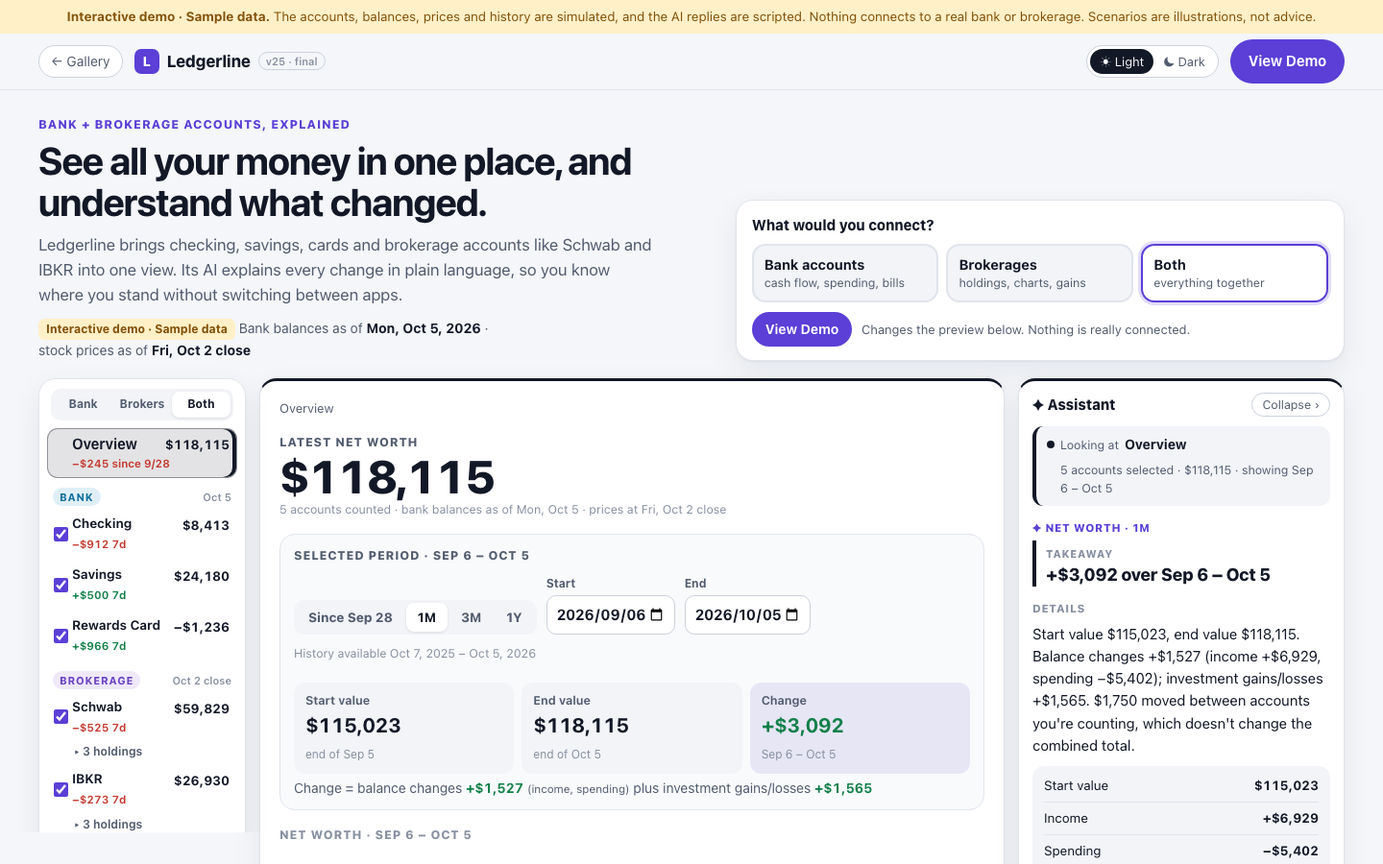
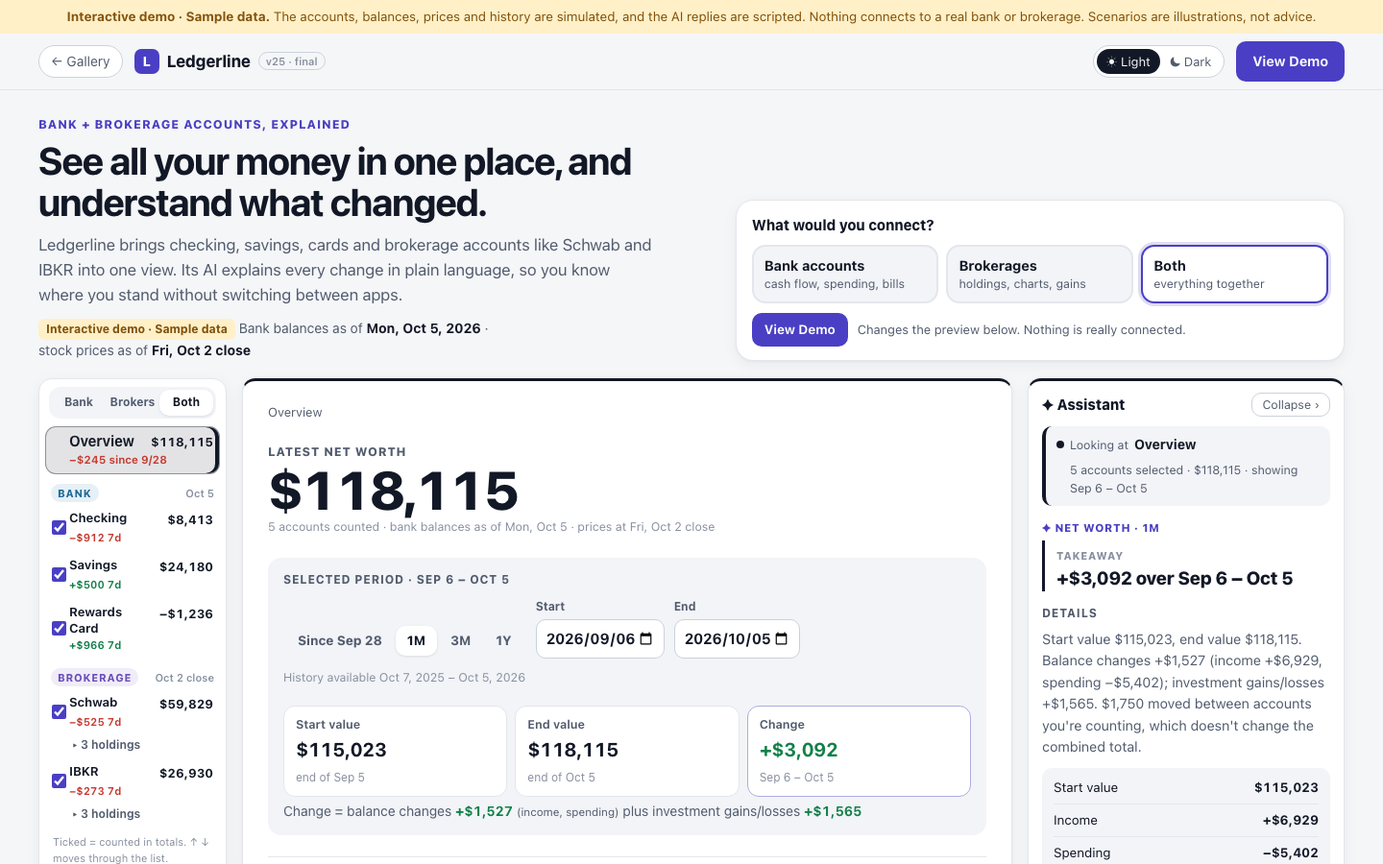
v25
v25: stock fundamentals, ETF fund info, and UI refresh

- Overview / Fundamentals switch in stock details: description, market cap,
  P/E, revenue growth, net margin, dividend yield, each with a plain-language
  explanation and reporting period; unavailable values shown honestly
- ETFs show expense ratio (and yearly cost on the holding), yield, top
  holdings with overlap, and sector allocation
- Assistant explains each metric takeaway-first
- Refresh: stronger hierarchy, compact account list, taller charts, one
  button style, consistent spacing/type, restrained light and dark colors
- Gallery: new v25 screenshot, card text and decision-log entry

diff --git a/a1-financial/v25/index.html b/a1-financial/v25/index.html
@@ -534,9 +534,72 @@
   .vs { margin-bottom: 12px; }
   table.hold td small { display: block; font-size: 11.5px; color: var(--faint); font-weight: 500; }
 
+  /* ---------- v25 refresh: one spacing scale, one type scale, one button style ---------- */
+  :root:not([data-theme="dark"]) { --accent: #4a3fc4; --accent-soft: #efedfb; --brok: #6a4fb8; --brok-soft: #f0ecf8; --bank: #1d6a95; --bank-soft: #e6f0f6; --bg: #f5f6f8; --line: #e3e6ec; --shadow: 0 1px 2px rgba(16,24,40,.04), 0 4px 16px rgba(16,24,40,.05); --r: 14px; --r-s: 10px; }
+  [data-theme="dark"] { --accent: #9d93f2; --accent-soft: #23203f; --brok: #ad98ee; --bank: #6aaed6; --shadow: 0 1px 2px rgba(0,0,0,.3), 0 4px 16px rgba(0,0,0,.25); --r: 14px; --r-s: 10px; }
+  body { font-size: 15.5px; }
+  .card { border-radius: var(--r); }
+  .detail { padding: 22px 26px 28px; gap: 22px; }
+  .sec h3, .p-h, .cats-h, .sub-h { font-size: 12px; font-weight: 750; letter-spacing: .07em; text-transform: uppercase; color: var(--muted); }
+  .sec h3 { margin-bottom: 10px; }
+  /* buttons share one shape */
+  .btn, .qbtn, .chipq, .to-ov, .as-min, .ranges button, .seg button, .seg2 button, .chip { border-radius: var(--r-s); }
+  .btn { padding: 9px 16px; font-size: 14.5px; }
+  .btn.sm { padding: 6px 12px; font-size: 13.5px; }
+  .chipq { padding: 5px 11px; }
+  .ranges, .seg { border-radius: 12px; }
+  /* compact account list */
+  .ws { grid-template-columns: 196px minmax(0, 1fr) 330px; gap: 16px; }
+  .ws.ai-min { grid-template-columns: 196px minmax(0, 1fr) 54px; }
+  .list { padding: 8px 6px; }
+  .list .pick { padding: 5px 6px 5px 2px; }
+  .list .pick .nm, .list .pick .bal { font-size: 13px; }
+  .list .pick .nm { white-space: normal; overflow: visible; }
+  .list .pick .chg { font-size: 11px; }
+  .list .grp { margin: 10px 6px 2px; }
+  .list-note { font-size: 11px; }
+  /* hierarchy: latest net worth > selected period > details */
+  .nw-head .big { font-size: clamp(40px, 4.6vw, 56px); }
+  .nw-head .k { color: var(--muted); }
+  .period { background: var(--surface-2); border: 0; border-radius: var(--r); padding: 14px 16px; }
+  .pstats > div { background: var(--surface); border: 1px solid var(--line); }
+  .pstats .chg { background: var(--surface); border-color: color-mix(in srgb, var(--accent) 35%, var(--line)); }
+  .pstats b { font-size: 20px; }
+  .detail > .sec, .detail > .two { padding-top: 18px; border-top: 1px solid var(--line); }
+  .tf { background: transparent; border: 1px solid var(--line); }
+  /* AI: takeaway first */
+  .take { border-left-width: 3px; padding: 2px 0 2px 12px; }
+  .take .x-title { font-size: 19px; line-height: 1.3; }
+  .x-text { font-size: 14.5px; color: var(--muted); }
+  .x-nums { border-radius: var(--r-s); }
+  .ctxbar { border-radius: var(--r-s); }
+  /* stock tabs and fundamentals */
+  .seg2 { display: inline-flex; gap: 2px; background: var(--surface-2); border-radius: 12px; padding: 3px; justify-self: start; }
+  .seg2 button { border: 0; background: none; padding: 6px 16px; font-weight: 700; font-size: 14px; color: var(--muted); cursor: pointer; }
+  .seg2 button[aria-selected="true"] { background: var(--surface); color: var(--ink); box-shadow: 0 1px 3px rgba(0,0,0,.1); }
+  .about { margin: 0; font-size: 15.5px; max-width: 70ch; }
+  .fgrid { display: grid; grid-template-columns: repeat(auto-fill, minmax(190px, 1fr)); gap: 10px; }
+  .fgrid.three { grid-template-columns: repeat(3, minmax(0, 1fr)); }
+  .fm { text-align: left; display: flex; flex-direction: column; gap: 3px; background: var(--surface); border: 1px solid var(--line); border-radius: var(--r-s); padding: 12px 14px; cursor: pointer; min-width: 0; }
+  .fm:hover { border-color: var(--accent); }
+  .fm .l { font-size: 12.5px; font-weight: 700; color: var(--muted); }
+  .fm b { font-size: 22px; letter-spacing: -.01em; font-variant-numeric: tabular-nums; }
+  .fm b.na { font-size: 17px; color: var(--muted); }
+  .fm .nab { font-size: 12px; color: var(--loss); }
+  .fm .nt { font-size: 12px; color: var(--muted); }
+  .fm .ex { font-size: 13px; color: var(--muted); margin-top: 4px; }
+  .fm .per { font-size: 11.5px; color: var(--faint); margin-top: auto; padding-top: 6px; border-top: 1px dashed var(--line); }
+  .wrow { display: grid; grid-template-columns: minmax(0, 1.3fr) minmax(0, 1fr) 52px; gap: 10px; align-items: center; padding: 6px 0; font-size: 14px; border-bottom: 1px solid var(--line); }
+  .wrow em { font-style: normal; font-size: 11px; font-weight: 700; color: var(--brok); background: var(--brok-soft); border-radius: 6px; padding: 1px 6px; margin-left: 4px; }
+  .wrow .bar { height: 8px; background: var(--surface-2); border-radius: 4px; overflow: hidden; }
+  .wrow .bar i { display: block; height: 100%; background: var(--brok); border-radius: 4px; }
+  .wrow .bar i.s { background: var(--bank); }
+  .wrow b { text-align: right; font-variant-numeric: tabular-nums; }
+
   /* ---------- responsive ---------- */
   @media (max-width: 1240px) {
     .ws { grid-template-columns: minmax(0, 1fr) 320px; }
+    .fgrid.three { grid-template-columns: repeat(2, minmax(0, 1fr)); }
     .ws.ai-min { grid-template-columns: minmax(0, 1fr) 54px; }
     .list { display: none; }
     .fx { grid-template-columns: repeat(3, minmax(0, 1fr)); }
@@ -591,6 +654,8 @@
     .ar .pc { display: none; }
     .pstats { grid-template-columns: 1fr 1fr; }
     .fx-sum, .pfacts { grid-template-columns: 1fr 1fr; }
+    .fgrid, .fgrid.three { grid-template-columns: minmax(0, 1fr); }
+    .detail { padding: 16px 14px 22px; gap: 18px; }
     table.hold th:last-child, table.hold td:last-child { display: none; }
     table.hold td { white-space: normal; }
     .dates-row label { min-width: 0; }
@@ -943,13 +1008,40 @@ function datesHTML(key) {
 }
 
 
+/* =========================================================
+   SAMPLE FUNDAMENTALS (new in this v25 update). Illustrative figures, not real company data.
+   Price-based metrics use the same Oct 2 close as everywhere else, so they stay consistent.
+   ========================================================= */
+const FUND_PERIOD = { ttm: "trailing 12 months to Jun 30, 2026", q: "Apr–Jun 2026 quarter vs. a year earlier", px: "price at Fri, Oct 2 close", fund: "fund data as of Aug 31, 2026" };
+const FUND = {
+  AAPL: { desc: "Designs and sells iPhone, Mac, iPad and wearables, plus services such as the App Store, iCloud and Apple Music.", sector: "Technology", shares: 15.2e9, eps: 6.60, rev: 4.9, margin: 24.1, div: 1.04 },
+  MSFT: { desc: "Makes software and cloud services, including Windows, Microsoft 365 and the Azure cloud platform, plus LinkedIn and Xbox.", sector: "Technology", shares: 7.43e9, eps: 12.40, rev: 14.2, margin: 35.6, div: 3.32 },
+  NVDA: { desc: "Designs graphics processors and other chips used for gaming and, increasingly, for AI and data centers.", sector: "Technology", shares: 24.5e9, eps: 2.94, rev: 56.0, margin: 52.4, div: 0.04 },
+  TSLA: { desc: "Makes electric vehicles, plus battery storage and solar energy products.", sector: "Consumer discretionary", shares: 3.21e9, eps: 1.88, rev: null, revWhy: "The latest quarterly report isn't included in this sample data.", margin: 6.8, div: 0 },
+  VTI: { etf: true, desc: "Holds nearly every publicly traded US company, large and small, weighted by size. One fund gives broad exposure to the whole US stock market.", exp: 0.03, n: 3600, yld: 1.3,
+    top: [["MSFT", 6.0], ["AAPL", 5.8], ["NVDA", 5.5], ["AMZN", 3.4], ["META", 2.3]], sect: [["Technology", 31], ["Financials", 13], ["Health care", 11], ["Consumer discretionary", 11], ["Industrials", 10], ["Other", 24]] },
+  QQQ: { etf: true, desc: "Tracks the Nasdaq-100: the 100 largest non-financial companies listed on the Nasdaq exchange, so it leans heavily toward technology.", exp: 0.20, n: 101, yld: 0.6,
+    top: [["MSFT", 8.6], ["AAPL", 8.4], ["NVDA", 8.0], ["AMZN", 5.3], ["META", 4.9]], sect: [["Technology", 50], ["Communication services", 16], ["Consumer discretionary", 14], ["Health care", 6], ["Other", 14]] }
+};
+const big = n => n >= 1e12 ? "$" + (n / 1e12).toFixed(2) + "T" : "$" + (n / 1e9).toFixed(0) + "B";
+function metrics(sym) {   // stock metrics, computed from the sample inputs
+  const f = FUND[sym], px = pos(sym).px;
+  return [
+    { k: "mcap", l: "Market cap", v: big(px * f.shares), per: FUND_PERIOD.px, ex: "What the whole company is worth on the stock market: share price × shares outstanding." },
+    { k: "pe", l: "P/E ratio", v: (px / f.eps).toFixed(1), per: `${FUND_PERIOD.px} ÷ earnings per share, ${FUND_PERIOD.ttm}`, ex: `How many dollars investors pay for $1 of yearly profit. A higher number usually means people expect faster growth.` },
+    { k: "rev", l: "Revenue growth", v: f.rev == null ? null : pct(f.rev), na: f.revWhy, per: FUND_PERIOD.q, ex: "How much more (or less) the company sold than in the same quarter a year earlier." },
+    { k: "margin", l: "Net profit margin", v: f.margin.toFixed(1) + "%", per: FUND_PERIOD.ttm, ex: "How many cents of profit the company keeps from each dollar of sales." },
+    { k: "div", l: "Dividend yield", v: f.div ? (f.div / px * 100).toFixed(2) + "%" : "None", note: f.div ? `$${f.div.toFixed(2)} a share per year` : "Doesn't pay a dividend", per: `yearly dividend ÷ ${FUND_PERIOD.px}`, ex: "The cash the company pays shareholders each year, as a share of the stock price." }
+  ];
+}
+
 /* ---------- state ---------- */
 const sel = new Set(ALL.map(a => a.id));          // ticked = counted in totals
 let conn = "both";                                // v19: bank, brokerage or both
 const W = { pay: false, dine: false, move: 0, moveTo: null, mkt: 0, acct: {}, stk: {} };
 const BASE = { pay: false, dine: false, move: 0, moveTo: null, mkt: 0, acct: {}, stk: {} };
 const mkFX = () => ({ q: "", from: "", to: "", acct: "", cat: "all", min: "", max: "", n: 40, err: null, open: false });
-const mkUI = () => ({ fx: mkFX(), mng: false, dateErr: null, item: "all", range: "1M", x: null, q: null, up: false, hover: null, wopen: false, hist: [], prev: null, prevX: null, ans: null, nwr: "1M", per: null, nwDay: null, drag: null, exp: {}, collapsed: false });
+const mkUI = () => ({ stab: "ov", fx: mkFX(), mng: false, dateErr: null, item: "all", range: "1M", x: null, q: null, up: false, hover: null, wopen: false, hist: [], prev: null, prevX: null, ans: null, nwr: "1M", per: null, nwDay: null, drag: null, exp: {}, collapsed: false });
 const ui = { land: mkUI(), demo: mkUI() };
 const cals = {};
 const connected = id => conn === "both" || (conn === "bank") === isBank(id);
@@ -984,7 +1076,7 @@ function ctxInfo(item) {
   const a = acct(item); return { label: a.name, sub: `${a.inst} ${a.mask} · ${money(item === "cc" ? 1236.40 : value(item), 2)}${item === "cc" ? " due" : ""} ${isBank(item) ? `as of ${MOCK.bankAsOf}` : `at ${MOCK.priceAsOf}`}${sel.has(item) ? "" : " · not selected"}`, color: isBank(item) ? "var(--bank)" : "var(--brok)", kind: isBank(item) ? "bank" : "brok" };
 }
 const X_LABEL = { "dc-income": "Income", "dc-spend": "Spending", "dc-inv": "Investment gains/losses", "dc-ext": "Transfers with accounts not counted", "dc-int": "Moves between your accounts", "a-bank": "Bank cash", "a-bcash": "Brokerage cash", "a-stocks": "Stocks & ETFs", "a-debt": "Credit card debt", nw: "Net worth", cash: "Bank total", inv: "Investments", kept: "Kept in September", income: "Income", spend: "Spending", pxchg: "Price change", mygain: "Your gain or loss", flow: "Recent cash flow", movers: "Top movers" };
-const xLabel = (x, key) => x.startsWith("tx-") ? (t => `${t.t} · ${short(t.d)}`)(HIST.byId[x.slice(3)]) : x === "nwd" ? nice(HIST.days[ui[key].nwDay]) : x === "nwp" ? period(key).label : X_LABEL[x] || (x.startsWith("cat-") ? x.slice(4) : x.startsWith("day-") ? nice(x.slice(4)) : x);
+const xLabel = (x, key) => x.startsWith("fm-") ? metrics(ui[key].item.slice(2)).find(z => "fm-" + z.k === x).l : x.startsWith("fe-") ? { "fe-exp": "Expense ratio", "fe-yld": "Dividend yield", "fe-top": "Top holdings" }[x] : x.startsWith("tx-") ? (t => `${t.t} · ${short(t.d)}`)(HIST.byId[x.slice(3)]) : x === "nwd" ? nice(HIST.days[ui[key].nwDay]) : x === "nwp" ? period(key).label : X_LABEL[x] || (x.startsWith("cat-") ? x.slice(4) : x.startsWith("day-") ? nice(x.slice(4)) : x);
 
 // one definition of “nothing to show”, used by the overview AND the assistant
 function emptyState() {
@@ -1161,7 +1253,7 @@ function chkHistory() {
   return out;
 }
 function lineSVG(key, pts, { color, base, fmt, labels, id, shade, sel, attr }) {
-  const w = innerWidth < 600 ? 360 : ui[key].collapsed && innerWidth > 1240 ? 880 : 640, h = innerWidth < 600 ? 200 : 220, vals = pts.map(p => p.v), lo = Math.min(...vals, base ?? Infinity), hi = Math.max(...vals, base ?? -Infinity), pad = (hi - lo) * .12 || 1;
+  const w = innerWidth < 600 ? 360 : ui[key].collapsed && innerWidth > 1240 ? 880 : 640, h = innerWidth < 600 ? 210 : 250, vals = pts.map(p => p.v), lo = Math.min(...vals, base ?? Infinity), hi = Math.max(...vals, base ?? -Infinity), pad = (hi - lo) * .12 || 1;
   const x = i => 46 + i * (w - 56) / Math.max(1, pts.length - 1), y = v => 14 + (hi + pad - v) / (hi - lo + 2 * pad) * (h - 44);
   const d = pts.map((p, i) => `${i ? "L" : "M"}${x(i).toFixed(1)},${y(p.v).toFixed(1)}`).join("");
   let g = `<svg viewBox="0 0 ${w} ${h}" data-chart="${key}|${id}" role="img" aria-label="${labels.aria}">`;
@@ -1225,6 +1317,9 @@ function stockHTML(key, sym) {
   let h = crumbs(key, [["all", "Overview"], [p.acct, a.name], ["h-" + sym, sym]]);
   h += `<div class="d-head"><div><span class="tag brok">${a.short}</span> <span style="font-size:13px;color:var(--muted)">${p.name}${ETFS.includes(sym) ? " · ETF" : ""}</span><h2>${sym}</h2><div class="pxline"><b>${money(p.px, 2)}</b> per share · <span>Fri, Oct 2, 4:00 pm ET close</span></div></div>
     <div class="fig"><div class="k2">Your position</div><div class="v">${money(p.val)}</div>${aft(p.val, A.pv[sym])}<div class="l">${p.qty} shares × ${money(p.px, 2)}</div></div></div>`;
+  const etf = !!(FUND[sym] && FUND[sym].etf);
+  h += `<div class="seg2" role="tablist" aria-label="${sym} view"><button type="button" role="tab" data-stab="${key}|ov" aria-selected="${u.stab !== "fund"}">Overview</button><button type="button" role="tab" data-stab="${key}|fund" aria-selected="${u.stab === "fund"}">${etf ? "Fund info" : "Fundamentals"}</button></div>`;
+  if (u.stab === "fund") return h + (etf ? etfHTML(key, p) : fundHTML(key, p));
   // key facts: quantity, average cost, current value, cost basis
   h += `<div class="pfacts"><div><span>Shares</span><b>${p.qty}</b></div><div><span>Average cost</span><b>${money(p.cost, 2)}</b><small>per share</small></div><div><span>Current value</span><b>${money(p.val)}</b><small>at Oct 2 close</small></div><div><span>Cost basis</span><b>${money(basis)}</b><small>what you paid</small></div></div>`;
   // the two kinds of performance, side by side
@@ -1239,6 +1334,27 @@ function stockHTML(key, sym) {
   return h;
 }
 
+function fundHTML(key, p) {
+  const f = FUND[p.sym], m = metrics(p.sym);
+  return `<div class="sec"><h3>About ${p.name} <span class="tf">${f.sector}</span></h3><p class="about">${f.desc}</p></div>
+    <div class="sec"><h3>Key numbers <span class="tf">Sample figures · tap one for an explanation</span></h3>
+      <div class="fgrid">${m.map(x => `<button type="button" ${xa(key, "fm-" + x.k, "fm")}><span class="l">${x.l}</span><b class="${x.v == null ? "na" : ""}">${x.v == null ? "Not available" : x.v}</b>${x.v == null ? `<small class="nab">${x.na}</small>` : x.note ? `<small class="nt">${x.note}</small>` : ""}<span class="ex">${x.ex}</span><span class="per">${x.per}</span></button>`).join("")}</div>
+      <p class="ovn">These are company-level numbers: they describe ${p.sym} as a business, not your ${p.qty} shares. Your own gain is on the Overview tab.</p></div>`;
+}
+function etfHTML(key, p) {
+  const f = FUND[p.sym], own = f.top.filter(([s]) => MOCK.positions.some(q => q.sym === s && q.sym !== p.sym)), cost = p.val * f.exp / 100;
+  return `<div class="sec"><h3>About this fund <span class="tf">ETF · ${f.n.toLocaleString()} holdings</span></h3><p class="about">${f.desc}</p></div>
+    <div class="sec"><h3>Fund basics <span class="tf">Sample figures · ${FUND_PERIOD.fund}</span></h3>
+      <div class="fgrid three">
+        <button type="button" ${xa(key, "fe-exp", "fm")}><span class="l">Expense ratio</span><b>${f.exp.toFixed(2)}%</b><small class="nt">about ${money(cost, 2)} a year on your ${money(p.val)}</small><span class="ex">The yearly fee the fund takes, as a share of what you hold.</span><span class="per">annual, ${FUND_PERIOD.fund}</span></button>
+        <button type="button" ${xa(key, "fe-yld", "fm")}><span class="l">Dividend yield</span><b>${f.yld.toFixed(1)}%</b><span class="ex">Cash the fund passes on from the companies it holds, as a share of its price.</span><span class="per">trailing 12 months, ${FUND_PERIOD.fund}</span></button>
+        <button type="button" ${xa(key, "fe-top", "fm")}><span class="l">Top 5 holdings</span><b>${f.top.reduce((a, t) => a + t[1], 0).toFixed(1)}%</b><span class="ex">How much of the fund sits in its five largest companies.</span><span class="per">${FUND_PERIOD.fund}</span></button>
+      </div></div>
+    <div class="two"><div class="sec"><h3>Top holdings</h3>${f.top.map(([s, w]) => `<div class="wrow"><span>${s}${MOCK.positions.some(q => q.sym === s) ? ` <em>you also own</em>` : ""}</span><span class="bar"><i style="width:${w / f.top[0][1] * 100}%"></i></span><b>${w.toFixed(1)}%</b></div>`).join("")}
+        ${own.length ? `<p class="ovn">You also own ${own.map(o => o[0]).join(", ")} directly, so part of this fund overlaps with your other holdings.</p>` : ""}</div>
+      <div class="sec"><h3>Sector allocation</h3>${f.sect.map(([n, w]) => `<div class="wrow"><span>${n}</span><span class="bar"><i class="s" style="width:${w}%"></i></span><b>${w}%</b></div>`).join("")}</div></div>
+    <p class="ovn">ETFs hold many companies, so company metrics like P/E aren't shown; fund costs and what's inside matter more.</p>`;
+}
 function calHTML(key, bs, rootKey) {
   const c = cals[key] || (cals[key] = { mi: 1, day: null }), [y, m] = MOCK.months[c.mi], ms = monthStats(y, m, bs), root = rootKey || key;
   const lvl = v => { const a = Math.abs(v); return a < 100 ? 1 : a < 250 ? 2 : a < 500 ? 3 : 4; };
@@ -1270,6 +1386,26 @@ function explain(key) {
   const u = ui[key], it = u.item, x = u.x, B = numbers(BASE), bs = B.bs, S = MOCK.september;
   const nums = rows => `<div class="x-nums">${rows.map(([l, v]) => `<div class="r"><span>${l}</span><b>${v}</b></div>`).join("")}</div>`;
   const X = (what, title, text, rows, qs) => ({ what, title, text, rows: rows ? nums(rows) : "", qs: qs || [] });
+  // fundamentals and fund information
+  if (x && (x.startsWith("fm-") || x.startsWith("fe-")) && it.startsWith("h-")) {
+    const p = pos(it.slice(2)), f = FUND[p.sym];
+    if (x.startsWith("fe-")) {
+      if (x === "fe-exp") return X("FUND COST", `${p.sym} costs about ${money(p.val * f.exp / 100, 2)} a year on your holding`, `Its expense ratio is ${f.exp.toFixed(2)}%: each year the fund keeps that share of what you hold to cover its costs. It's taken out of the fund's value, not billed to you. Sample figure, ${FUND_PERIOD.fund}.`, MOCK.positions.filter(q => FUND[q.sym] && FUND[q.sym].etf).map(q => [`${q.sym} <small>${FUND[q.sym].exp.toFixed(2)}%</small>`, money(q.val * FUND[q.sym].exp / 100, 2) + " / yr"]));
+      if (x === "fe-yld") return X("FUND DIVIDENDS", `${p.sym} yields about ${f.yld.toFixed(1)}%`, `On your ${money(p.val)} that's roughly ${money(p.val * f.yld / 100)} a year, if the yield stayed the same. Sample figure, trailing 12 months.`);
+      return X("WHAT'S INSIDE", `Its top 5 companies are ${f.top.reduce((a, t) => a + t[1], 0).toFixed(1)}% of ${p.sym}`, `${f.top.filter(([s]) => MOCK.positions.some(q => q.sym === s)).length ? `You also own ${f.top.filter(([s]) => MOCK.positions.some(q => q.sym === s)).map(t => t[0]).join(", ")} directly, so your exposure to them is higher than your direct holdings suggest.` : ""} Sample figures, ${FUND_PERIOD.fund}.`, f.top.map(([s, w]) => [s, `${w.toFixed(1)}% · about ${money(p.val * w / 100)} of yours`]));
+    }
+    const m = metrics(p.sym).find(z => "fm-" + z.k === x), all = MOCK.positions.filter(q => FUND[q.sym] && !FUND[q.sym].etf);
+    const cmp = all.map(q => { const v = metrics(q.sym).find(z => z.k === m.k); return [q.sym + (q.sym === p.sym ? " <small>(this)</small>" : ""), v.v == null ? "Not available" : v.v]; });
+    const take = m.v == null ? `${p.sym}'s ${m.l.toLowerCase()} isn't available` : { mcap: `${p.sym} is worth about ${m.v} on the market`, pe: `Investors pay about $${(+m.v).toFixed(2)} for each $1 of ${p.sym}'s yearly profit`, rev: `${p.sym}'s sales ${FUND[p.sym].rev >= 0 ? "grew" : "fell"} ${m.v.replace(/^[+−]/, "")} from a year earlier`, margin: `${p.sym} keeps about ${Math.round(FUND[p.sym].margin)}¢ of profit per $1 of sales`, div: FUND[p.sym].div ? `${p.sym} pays about ${m.v} a year in dividends` : `${p.sym} doesn't pay a dividend` }[m.k];
+    return X(`${m.l.toUpperCase()} · ${p.sym}`, take, `${m.ex} ${m.v == null ? m.na + " The demo shows it as unavailable instead of guessing." : ""} Period: ${m.per}. Sample figures, not real company data, and not a recommendation.`, cmp);
+  }
+  // the Fundamentals / Fund info tab, before anything specific is chosen
+  if (!x && it.startsWith("h-") && u.stab === "fund" && FUND[it.slice(2)]) {
+    const p = pos(it.slice(2)), f = FUND[p.sym];
+    if (f.etf) return X(`${p.sym} · FUND INFO`, `${p.sym} holds ${f.n.toLocaleString()} companies and costs about ${money(p.val * f.exp / 100, 2)} a year on yours`, `${f.desc} Its largest sector is ${f.sect[0][0].toLowerCase()} at ${f.sect[0][1]}%. Sample figures, ${FUND_PERIOD.fund}.`, [["Expense ratio", f.exp.toFixed(2) + "%"], ["Dividend yield", f.yld.toFixed(1) + "%"], ["Top 5 holdings", f.top.reduce((a, t) => a + t[1], 0).toFixed(1) + "%"]], [["x:fe-exp", "What does the fee cost me?"], ["x:fe-top", "What's inside?"]]);
+    const m = metrics(p.sym), g = k => m.find(z => z.k === k);
+    return X(`${p.sym} · FUNDAMENTALS`, `${p.sym} in brief: a ${g("mcap").v} company at ${g("pe").v}× earnings`, `${f.desc} These describe the company, not your shares. Sample figures, not real company data.`, m.map(z => [z.l, z.v == null ? "Not available" : z.v]), [["x:fm-pe", "What does P/E tell me?"], ["x:fm-margin", "Is it profitable?"]]);
+  }
   // a single transaction from the explorer
   if (x && x.startsWith("tx-")) {
     const t = HIST.byId[x.slice(3)], A = id => id === "cc" ? "Rewards Card" : acct(id).name, Sx = counted(), i = HIST.idx[t.d], own = Sx.has(t.a);
@@ -1503,6 +1639,8 @@ document.addEventListener("click", e => {
   if (ap) { const [key, i] = ap.dataset.apply.split("|"), o = ui[key].ans.options[+i]; applyScenario(key, o.act); return; }
   const ac = e.target.closest("[data-ansclear]");
   if (ac) { const key = ac.dataset.ansclear; ui[key].ans = null; render(key); return; }
+  const st = e.target.closest("[data-stab]");
+  if (st) { const [key, v] = st.dataset.stab.split("|"); ui[key].stab = v; if (ui[key].x && /^f[me]-/.test(ui[key].x)) ui[key].x = null; render(key); $(`[data-stab="${key}|${v}"]`)?.focus(); return; }
   const fo = e.target.closest("[data-fxopen]");
   if (fo) { const key = fo.dataset.fxopen; ui[key].fx.open = !ui[key].fx.open; render(key); $(`[data-fxopen="${key}"]`)?.focus(); return; }
   const fs = e.target.closest("[data-fxscope]");

diff --git a/a1-financial/index.html b/a1-financial/index.html
@@ -185,7 +185,7 @@
             <li>Latest net worth first, then a selected period (presets or exact dates) explained through income, spending and investment gains</li>
             <li>A breakdown into bank cash, brokerage cash, stocks &amp; ETFs and card debt</li>
             <li>A searchable transaction explorer built from the same sample ledger as the overview</li>
-            <li>Holdings with a price chart, average cost and your own gain, kept separate from the stock's performance</li>
+            <li>Holdings with a price chart, average cost and your own gain, kept separate from the stock's performance, plus an Overview / Fundamentals switch: sample company metrics for stocks, fund costs and contents for ETFs</li>
             <li>An assistant that leads with a short takeaway; what-if scenarios are a secondary tool</li>
           </ul>
           <h4>Earlier versions that shaped it</h4>
@@ -289,7 +289,7 @@
       </details>
 
       <details class="lg" open>
-        <summary>Stage 3 · Refining the Connected Workspace <small>v20–v25 · 6 entries</small></summary>
+        <summary>Stage 3 · Refining the Connected Workspace <small>v20–v25 · 7 entries</small></summary>
         <ol class="log">
           <li><div class="when">v20</div><h4>v18 becomes the foundation</h4>
             <p>I combined v18's overview and AI panel with the clear account list from v01/v16, the bank/brokerage choice from v19 and v08's “Since you last checked”, keeping the layout focused. I also wanted individual stocks, each with a price chart (simulated 1D, 1W, 1M and 1Y), position details, and a clear difference between the stock's price change and my own gain or loss. The AI panel explains what's selected, with what-ifs as a secondary tab. Bank accounts show cash flow instead of stock charts.</p></li>
@@ -321,6 +321,14 @@
               <li>a polished investment flow, from brokerage to holding to chart to my own gain</li>
             </ul>
             <p>Order placement is left for the future.</p></li>
+          <li class="fin"><div class="when">v25 · update</div><h4>Stock fundamentals and a visual refresh</h4>
+            <p>I asked for one more refinement of v25, keeping the Connected Workspace structure:</p>
+            <ul>
+              <li>An Overview / Fundamentals switch in the stock details. Stocks show a short company description, market cap, P/E, revenue growth, net profit margin and dividend yield, each explained in plain language with its reporting period. Values that aren't available are shown as unavailable, with the reason.</li>
+              <li>ETFs show fund information instead: expense ratio (and what it costs on my holding), dividend yield, top holdings with any overlap with stocks I own directly, and sector allocation.</li>
+              <li>A more polished, easier-to-scan interface: a stronger hierarchy from latest net worth to period changes to details, a more compact account list, larger charts, one button style, consistent spacing and type, and restrained colors in both light and dark mode. The assistant still leads with a short takeaway, including on the fundamentals tab.</li>
+            </ul>
+            <p>All fundamentals are sample figures, and price-based metrics use the same Oct 2 close as the rest of the page.</p></li>
         </ol>
       </details>
 
@@ -364,7 +372,7 @@ const VERSIONS = [
   { v: "v22", p: "c", title: "Clear & Reliable", dir: "The same workspace, made more trustworthy.", chg: "A value-first headline, data dates, exact what-ifs, consistent empty states.", learn: "Next, a clearer picture of overall finances." },
   { v: "v23", p: "c", title: "Net Worth Overview", dir: "Net-worth history and breakdown.", chg: "1M, 3M and 1Y history, assets vs. debt, a reconciled sample ledger.", learn: "Next, flexible dates, spending details and mobile." },
   { v: "v24", p: "c", title: "Dates, Spending & Mobile", dir: "Flexible dates and spending details.", chg: "Exact dates, a transaction explorer, Manage accounts on mobile.", learn: "It had the features I wanted." },
-  { v: "v25", p: "c", title: "Connected Workspace (final)", dir: "The finished Connected Workspace.", chg: "A clearer hierarchy, one sample-data label, takeaway-first AI, a polished investment flow.", learn: "My final choice." }
+  { v: "v25", p: "c", title: "Connected Workspace (final)", dir: "The finished Connected Workspace.", chg: "A clearer hierarchy, one sample-data label, takeaway-first AI and a polished investment flow, then stock fundamentals and a visual refresh.", learn: "My final choice." }
 ];
 const FINAL = "v25";
 const PH = { a: "Exploration", b: "Practical", c: "Refinement" };
